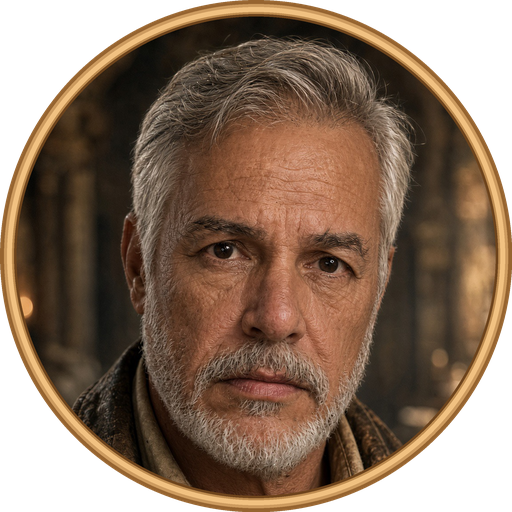
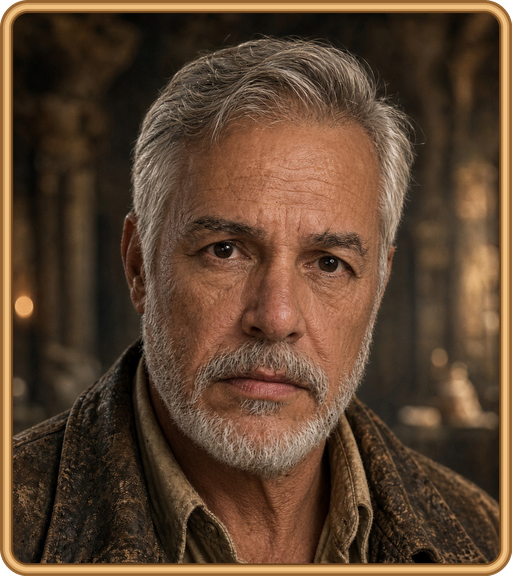
Wyglaf portrait: show head and upper body in a bronze frame
Eddie wanted the view further out, like the original picture: the top
three quarters of the portrait, in a rounded bronze frame (512x576)
instead of a round face crop. Website, Android About and WygDesktop
About sizes updated to the taller shape.

Claude-Session: https://claude.ai/code/session_01D8QhMumLZ3sgGLpLJ7ceCC

diff --git a/docs/index.html b/docs/index.html
@@ -50,7 +50,7 @@
 <section id="story">
   <div class="wrap">
     <h2>How WygTV started</h2>
-    <div class="maker"><img src="img/wyglaf.png" alt="Wyglaf" width="120" height="120"><div><b>Made by Wyglaf</b><br><span>The person behind WygTV</span></div></div>
+    <div class="maker"><img src="img/wyglaf.png" alt="Wyglaf" width="140" height="158"><div><b>Made by Wyglaf</b><br><span>The person behind WygTV</span></div></div>
     <p class="sub">WygTV began with a simple goal: to bring free over-the-air channels from an HDHomeRun network tuner to the TV, complete with a proper channel list and TV guide. From there it grew into a full IPTV player, so your Xtream Codes and M3U playlists sit right alongside your antenna channels in one place. It was first built for Android TVs and tablets, and it has since come to Windows, Mac, Ubuntu, iPhone and iPad as well.</p>
   </div>
 </section>

diff --git a/WygDesktop/src/renderer/styles.css b/WygDesktop/src/renderer/styles.css
@@ -241,7 +241,7 @@ body { font-size: 16px; }
 .about { display: flex; gap: 20px; align-items: center; }
 .about img { width: 96px; border-radius: 20px; }
 .about.maker { margin-top: 14px; }
-.about.maker img { border-radius: 50%; }
+.about.maker img { width: 110px; height: auto; border-radius: 0; }
 
 /* ------------------------------------------------------------------ pop-ups */
 .layer { position: absolute; inset: 0; display: flex; align-items: center; justify-content: center; }

diff --git a/docs/style.css b/docs/style.css
@@ -206,6 +206,6 @@ footer .wrap { display: flex; flex-wrap: wrap; gap: 12px 24px; justify-content: 
 
 /* Wyglaf, who makes WygTV (How WygTV started) */
 .maker { display: flex; align-items: center; gap: 16px; margin: 6px 0 14px; }
-.maker img { width: 120px; height: 120px; border-radius: 50%; }
+.maker img { width: 140px; height: 158px; flex: none; }
 .maker b { color: var(--accent, #E6B070); font-size: 20px; }
 .maker span { color: var(--muted, #C6CADD); }

diff --git a/app/src/main/java/com/wygtv/tv/Menus.java b/app/src/main/java/com/wygtv/tv/Menus.java
@@ -1211,7 +1211,7 @@ final class Menus {
         parent.addView(t, new LinearLayout.LayoutParams(-1, -2));
     }
 
-    /** About: the version, and Wyglaf (who makes WygTV) with his avatar. */
+    /** About: the version, and Wyglaf (who makes WygTV) with his framed portrait. */
     private static void aboutDialog(MainActivity a, String about) {
         LinearLayout box = new LinearLayout(a);
         box.setOrientation(LinearLayout.HORIZONTAL);
@@ -1220,7 +1220,7 @@ final class Menus {
         android.widget.ImageView pic = new android.widget.ImageView(a);
         pic.setImageResource(R.drawable.wyglaf_avatar);
         pic.setContentDescription("Wyglaf");
-        box.addView(pic, new LinearLayout.LayoutParams(a.dp(120), a.dp(120)));
+        box.addView(pic, new LinearLayout.LayoutParams(a.dp(128), a.dp(144)));
         LinearLayout text = new LinearLayout(a);
         text.setOrientation(LinearLayout.VERTICAL);
         text.setPadding(a.dp(18), 0, 0, 0);
